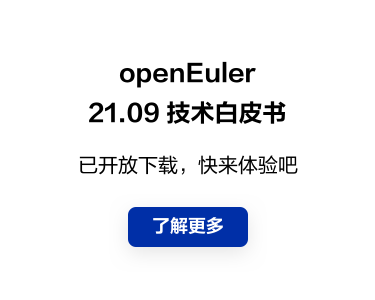
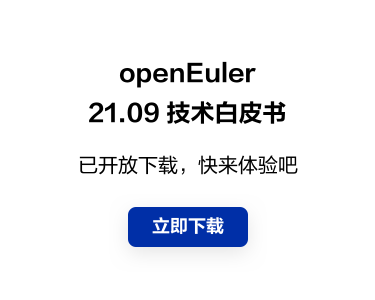
峰会日程更新
峰会日程更新，banner更新

Changed region(s): [[0.4107, 0.72, 0.616, 0.78]]

diff --git a/web-ui/docs/.vuepress/lang/lang-modules/summit.js b/web-ui/docs/.vuepress/lang/lang-modules/summit.js
@@ -50,30 +50,36 @@
                 {
                     TIME: '10:10 - 10:40',
                     THEME: 'openEuler&Friends 2.0：协作联创激发无限可能',
+                    SPEAKER: '中移苏研、中移信息、招商银行、中科创达、品高软件、支流科技'
                 },
                 {
                     TIME: '10:40 - 10:55',
                     THEME: '金融用户创新实践',
-                    SPEAKER: '麒麟',
+                    SPEAKER: '麒麟软件',
                 },
                 {
                     TIME: '10:55 - 11:10',
                     THEME: '中国移动创新实践',
-                    SPEAKER: 'SUSE和中国移动联合演讲',
+                    SPEAKER: '中国移动和SUSE联合演讲',
                 },
                 {
                     TIME: '11:10 - 11:25',
                     THEME: '智能电网调度控制系统自主创新应用实践',
-                    SPEAKER: '麒麟信安'
+                    SPEAKER: '中国电科院和麒麟信安联合演讲'
                 },
                 {
-                    TIME: '11:25 - 11:35',
+                    TIME: '11:25 - 11:40',
+                    THEME: '中国邮政创新实践',
+                    SPEAKER: '中国邮政和统信软件联合演讲',
+                },
+                {
+                    TIME: '11:40 - 11:50',
                     THEME: '仰望星空-操作系统前沿发展思考',
                     SPEAKER: '陈海波',
-                    POSITION: '上海交通大学教授 / 华为操作系统首席科学家'
+                    POSITION: '上海交通大学教授 、华为操作系统首席科学家'
                 },
                 {
-                    TIME: '11:35 - 11:40',
+                    TIME: '11:50 - 11:55',
                     THEME: '欧拉开源社区超级用户大奖',
                     SPEAKER: '高巍',
                     POSITION: '欧拉开源社区用户委员会主席'

diff --git a/web-ui/docs/.vuepress/components/summit/summit-summit.vue b/web-ui/docs/.vuepress/components/summit/summit-summit.vue
@@ -171,7 +171,7 @@ export default {
     },
     objectSpanMethod({ row, column, rowIndex, columnIndex }) {
       if (this.showTab === "ten") {
-        if (rowIndex === 7 || rowIndex === 5) {
+        if (rowIndex === 7 || rowIndex === 5 ||rowIndex === 8 || rowIndex === 9) {
           if (columnIndex === 3) {
             return {
               rowspan: 1,
@@ -365,9 +365,9 @@ export default {
         }
       }
     }
-    .item:nth-child(-n+9):nth-child(n+6){
+    .item:nth-child(-n+10):nth-child(n+6){
       p  span:first-of-type {
-        width: 150px;
+        width: 180px;
       }
       p  span:last-of-type {
         width: 0;
